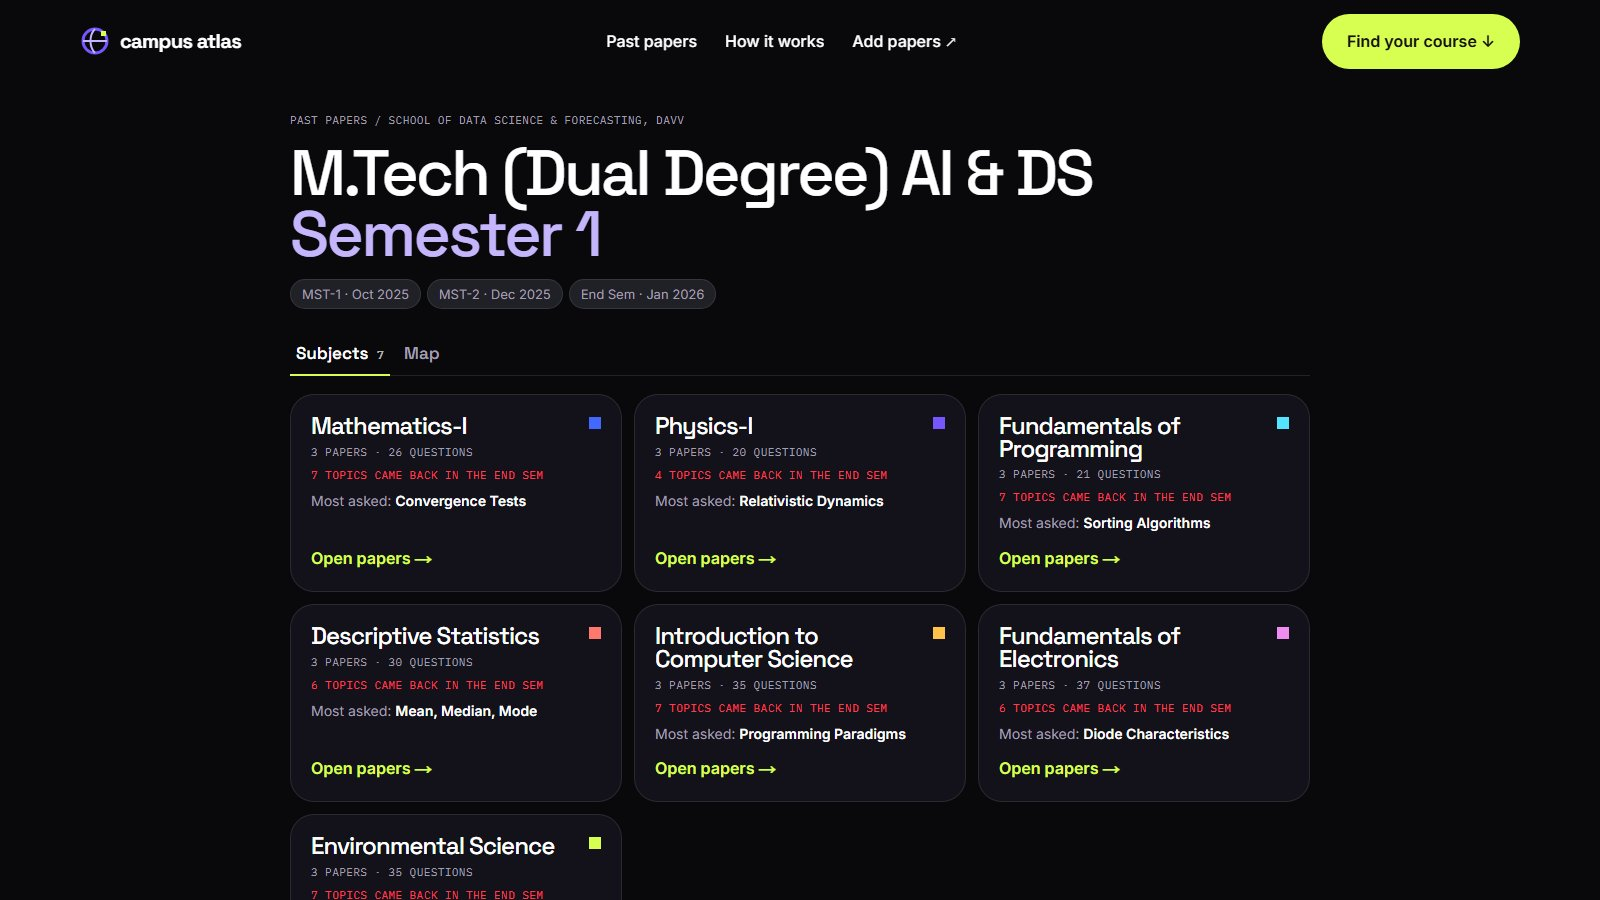
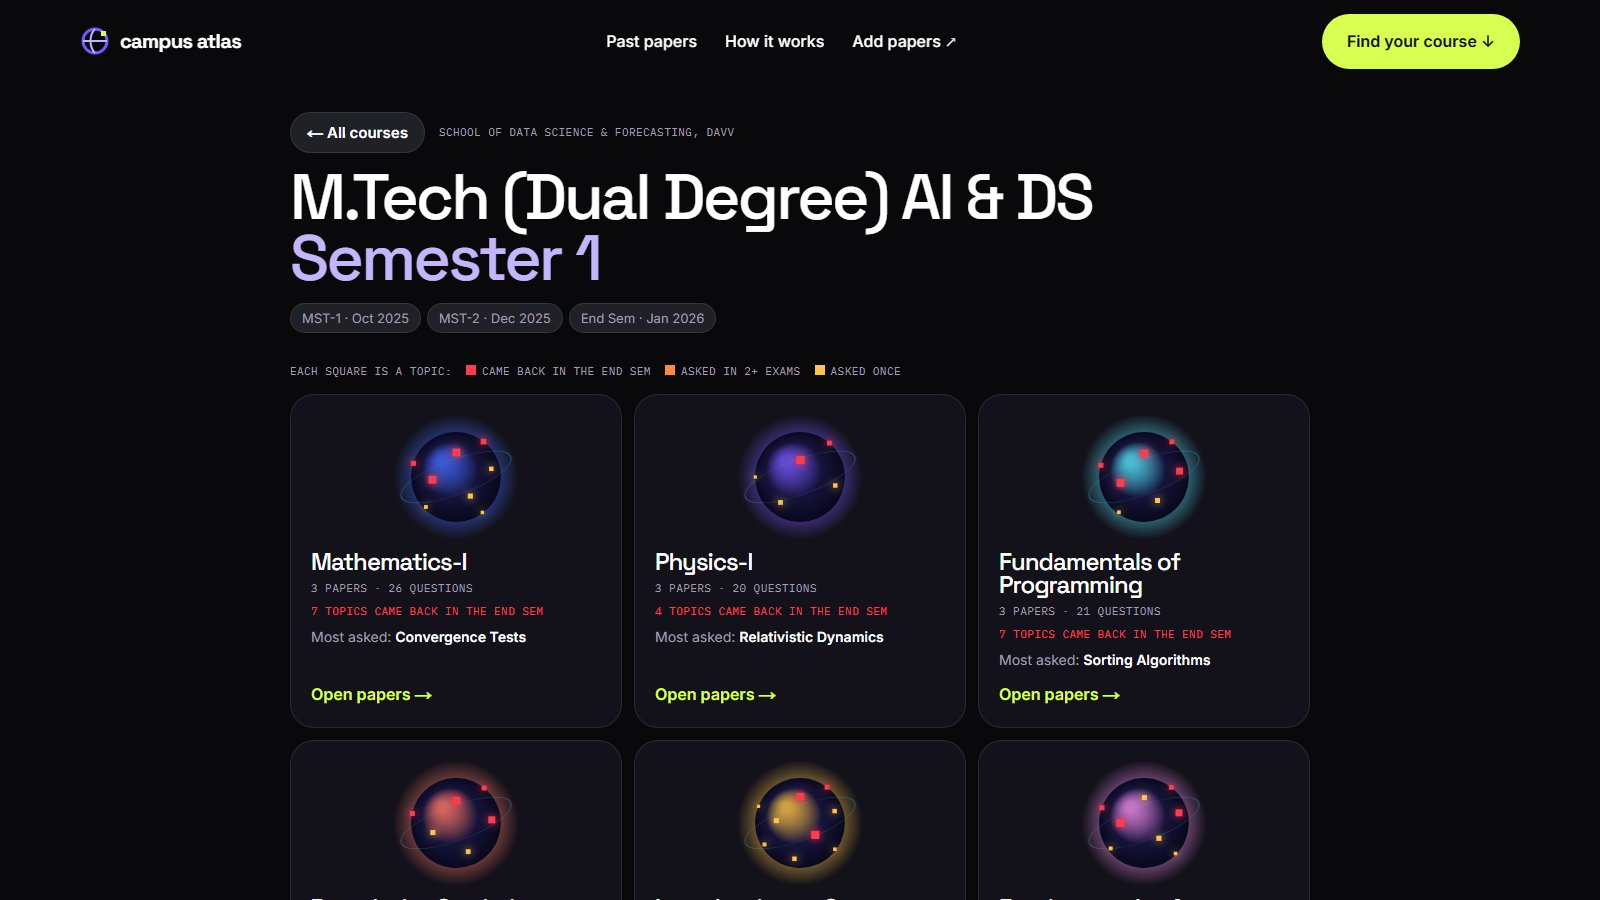
Briefs and README: planet cards replace the Map tab

diff --git a/AGENTS.md b/AGENTS.md
@@ -29,11 +29,12 @@ other departments" links; search across all questions.
 CUT (do not bring back without asking): quizzes (incl. the Mentee quiz builder), "mark as studied" /
 fog / progress, "Exam tomorrow" routes and arcs, the Constellation view, the study-space tabs, the
 made-up demo dataset, the language picker (its Hindi was an unreviewed partial AI translation),
-study sessions, the Earth globe. The 3D knowledge planet survives only as an
-optional "Map" tab on a course page; it is never the main way to navigate.
+study sessions, the Earth globe, the 3D globe ("Map" tab). The planet look survives as the home-page
+hero and as small spinning planets on the subject cards: decoration on a link, never a separate way
+to navigate.
 
 ## 3. Build order
-1. Simplify: remove the cut features; course page (subjects + optional Map) and subject page
+1. Simplify: remove the cut features; course page (subject cards with mini planets) and subject page
    (Papers, Likely topics). Static site. <- current
 2. More papers: several years per course in one pack (the schema today holds one year: exam ids
    mst1/mst2/end); collect older papers from seniors.
@@ -67,7 +68,7 @@ A. pipeline/ (Python 3.11, .venv): the PYQ Trust Harness. Raw PDFs + manifest ->
    (pipeline/eval/expected_repeats.json); current result 18 of 19, stored in the pack.
 B. skills/pyq-atlas/: Agent Skill (agentskills.io standard) wrapping the pipeline, so any
    skills-compatible agent can add a course. Must keep passing `skills-ref validate`.
-C. web/ (Next.js 16 App Router, static export, TypeScript, Tailwind v4, KaTeX, globe.gl for the Map tab).
+C. web/ (Next.js 16 App Router, static export, TypeScript, Tailwind v4, KaTeX; planets are 2D canvas, no 3D library).
    Reads ONLY pack JSON at build time; no AI calls at runtime. Fonts are bundled in
    web/src/app/fonts (works offline). This Next.js has breaking changes: read
    web/node_modules/next/dist/docs before using an API you are unsure of.

diff --git a/CLAUDE.md b/CLAUDE.md
@@ -29,11 +29,12 @@ other departments" links; search across all questions.
 CUT (do not bring back without asking): quizzes (incl. the Mentee quiz builder), "mark as studied" /
 fog / progress, "Exam tomorrow" routes and arcs, the Constellation view, the study-space tabs, the
 made-up demo dataset, the language picker (its Hindi was an unreviewed partial AI translation),
-study sessions, the Earth globe. The 3D knowledge planet survives only as an
-optional "Map" tab on a course page; it is never the main way to navigate.
+study sessions, the Earth globe, the 3D globe ("Map" tab). The planet look survives as the home-page
+hero and as small spinning planets on the subject cards: decoration on a link, never a separate way
+to navigate.
 
 ## 3. Build order
-1. Simplify: remove the cut features; course page (subjects + optional Map) and subject page
+1. Simplify: remove the cut features; course page (subject cards with mini planets) and subject page
    (Papers, Likely topics). Static site. <- current
 2. More papers: several years per course in one pack (the schema today holds one year: exam ids
    mst1/mst2/end); collect older papers from seniors.
@@ -67,7 +68,7 @@ A. pipeline/ (Python 3.11, .venv): the PYQ Trust Harness. Raw PDFs + manifest ->
    (pipeline/eval/expected_repeats.json); current result 18 of 19, stored in the pack.
 B. skills/pyq-atlas/: Agent Skill (agentskills.io standard) wrapping the pipeline, so any
    skills-compatible agent can add a course. Must keep passing `skills-ref validate`.
-C. web/ (Next.js 16 App Router, static export, TypeScript, Tailwind v4, KaTeX, globe.gl for the Map tab).
+C. web/ (Next.js 16 App Router, static export, TypeScript, Tailwind v4, KaTeX; planets are 2D canvas, no 3D library).
    Reads ONLY pack JSON at build time; no AI calls at runtime. Fonts are bundled in
    web/src/app/fonts (works offline). This Next.js has breaking changes: read
    web/node_modules/next/dist/docs before using an API you are unsure of.

diff --git a/README.md b/README.md
@@ -23,7 +23,7 @@ anyone add a course. Apache-2.0.
 
 | Course page | Papers | Likely topics |
 |---|---|---|
-| ![The seven subjects of M.Tech AI&DS Semester 1, each with its papers and most-asked topic](docs/screenshots/course.jpg) | ![Physics-I End Sem, January 2026, question by question with repeat badges](docs/screenshots/papers.jpg) | ![Descriptive Statistics topics ranked by how often they were asked, with reasons](docs/screenshots/likely.jpg) |
+| ![The seven subjects of M.Tech AI&DS Semester 1, each card with a small planet of its topics, its papers and most-asked topic](docs/screenshots/course.jpg) | ![Physics-I End Sem, January 2026, question by question with repeat badges](docs/screenshots/papers.jpg) | ![Descriptive Statistics topics ranked by how often they were asked, with reasons](docs/screenshots/likely.jpg) |
 
 ## What it found (DAVV, M.Tech AI&DS, Semester 1)
 
